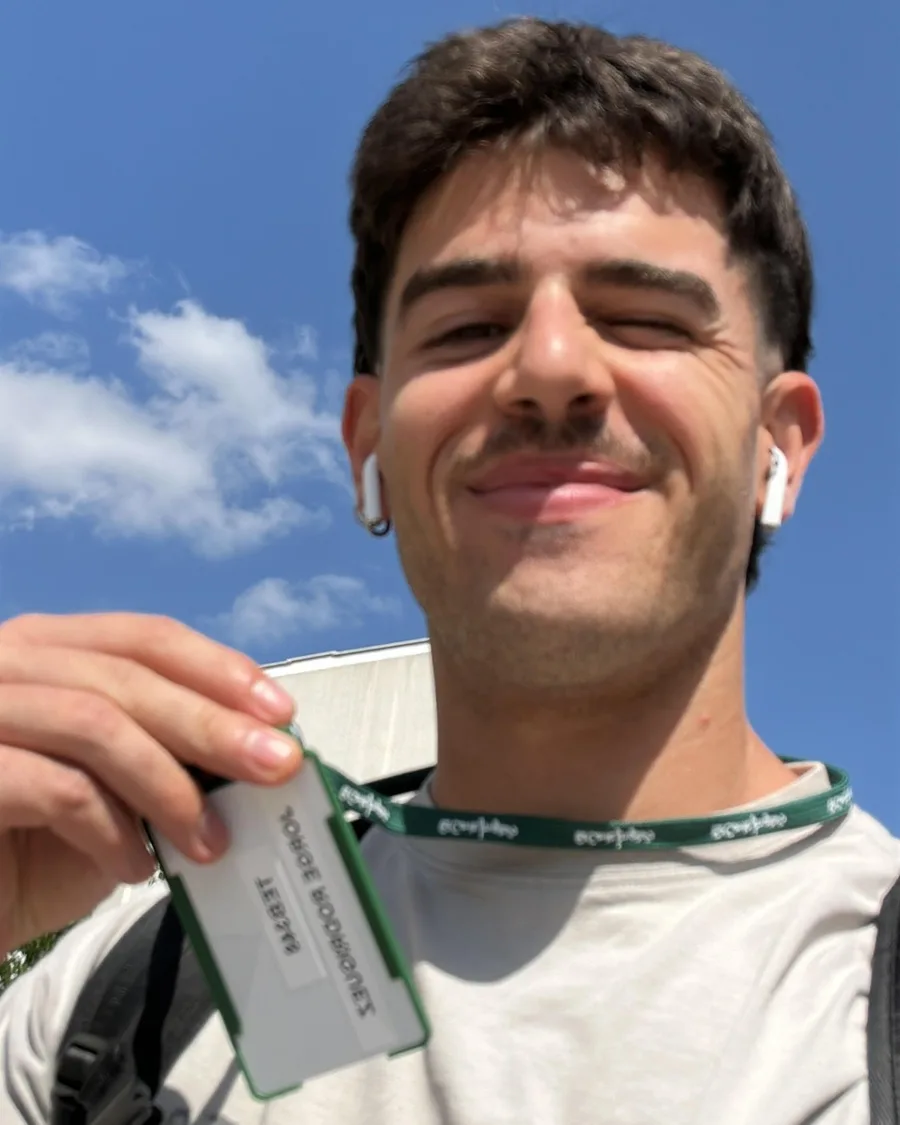
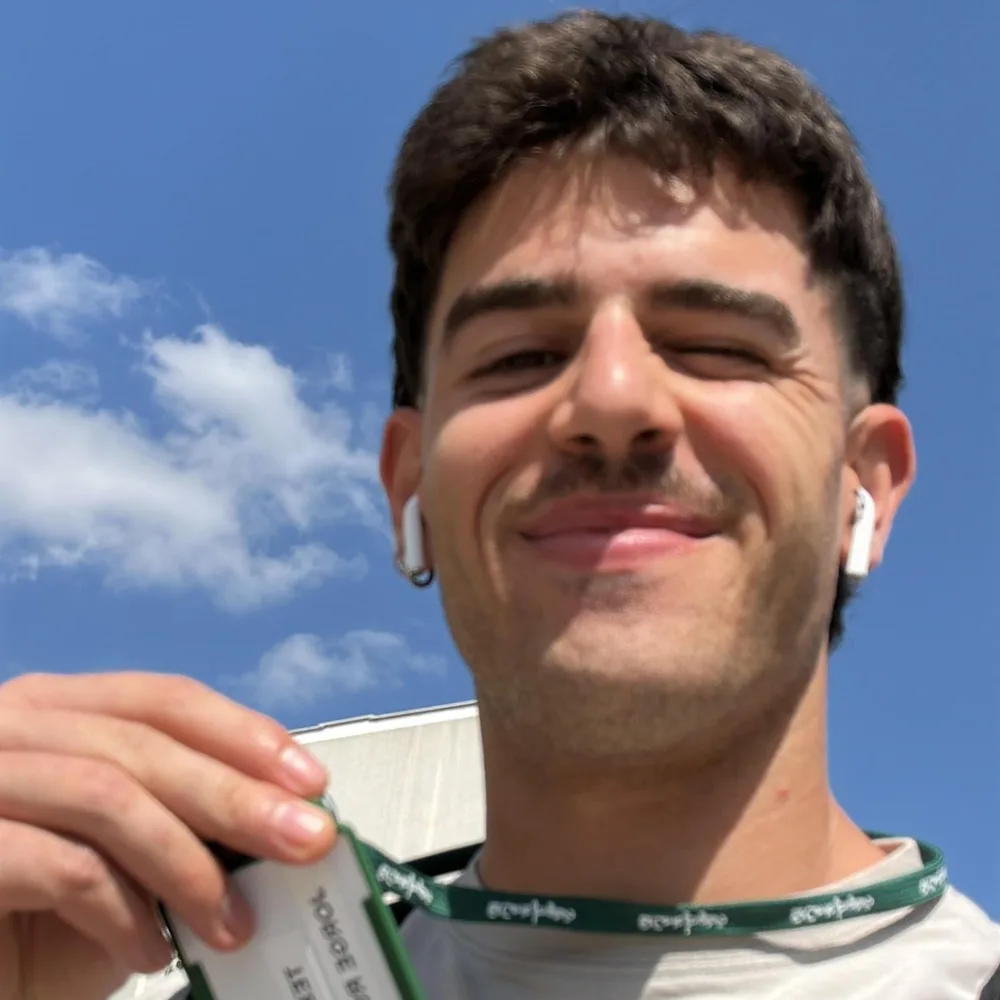
Education rows with place photos (Palma), square work photos, rule before master's thesis

diff --git a/index.html b/index.html
@@ -8,7 +8,7 @@
 <meta name="theme-color" content="#0b1b2e">
 <link rel="preload" href="fonts/bricolage-latin.woff2" as="font" type="font/woff2" crossorigin>
 <link rel="preload" href="fonts/publicsans-latin.woff2" as="font" type="font/woff2" crossorigin>
-<link rel="stylesheet" href="css/style.css?v=20261016h">
+<link rel="stylesheet" href="css/style.css?v=20261016i">
 <script>document.documentElement.classList.add('js')</script>
 </head>
 <body>
@@ -62,7 +62,8 @@
           <p>A customer-lifetime-value churn model that helps the Business department take strategy decisions based on sales probabilities. I tuned, calibrated and evaluated it in Databricks, and used feature analysis to find what drives the number of purchases before a customer leaves.</p>
         </li>
       </ul>
-      <div class="photos"><figure><button type="button" class="fig" data-full="assets/photos/work-1.webp" data-cap="Summer 2026 at Grupo Viajes El Corte Inglés in Palma de Mallorca."><img src="assets/photos/work-1.webp" width="900" height="1125" alt="Jorge smiling at the camera in a selfie against a blue sky, holding up his company badge on a green lanyard." loading="lazy"></button><figcaption>Summer 2026 at Grupo Viajes El Corte Inglés in Palma de Mallorca.</figcaption></figure><figure><button type="button" class="fig" data-full="assets/photos/work-2.webp" data-cap="The Blue Building where I did my internship."><img src="assets/photos/work-2.webp" width="900" height="1125" alt="The entrance sign of the Blue Building, with the logos of Logitravel and Grupo Viajes El Corte Inglés." loading="lazy"></button><figcaption>The Blue Building where I did my internship.</figcaption></figure></div>
+      <div class="photos"><figure><button type="button" class="fig" data-full="assets/photos/work-1.webp" data-cap="Summer 2026 at Grupo Viajes El Corte Inglés in Palma de Mallorca."><img src="assets/photos/work-1.webp" width="1000" height="1000" alt="Jorge smiling at the camera in a selfie against a blue sky, holding up his company badge on a green lanyard." loading="lazy"></button><figcaption>Summer 2026 at Grupo Viajes El Corte Inglés in Palma de Mallorca.</figcaption></figure><figure><button type="button" class="fig" data-full="assets/photos/work-2.webp" data-cap="The Blue Building where I did my internship."><img src="assets/photos/work-2.webp" width="1000" height="1000" alt="The entrance sign of the Blue Building, with the logos of Logitravel and Grupo Viajes El Corte Inglés." loading="lazy"></button><figcaption>The Blue Building where I did my internship.</figcaption></figure></div>
+      <hr class="sep">
 
 
       <article class="feature" aria-labelledby="thesis-h">
@@ -197,12 +198,17 @@ Thou f</pre></figure></div></div>
           <li><div class="when"><time>Jan 2021 to Jun 2025</time></div><div><strong>Private tutor</strong><br>Mathematics, physics and chemistry for high-school students</div></li>
         </ol>
         <h3 class="list-h">Education</h3>
-        <ol class="timeline">
-          <li><div class="when"><time>Sep 2025 to Dec 2026</time><span class="place">Palma de Mallorca, Spain</span></div><div><strong>MSc Physics of Complex Systems</strong><br>Universitat de les Illes Balears, IFISC<br>Current grade 8.26 / 10 (GPA: 3.32 / 4)<br>Thesis on delay prediction in aviation networks</div></li>
-          <li><div class="when"><time>Sep 2021 to Jun 2025</time><span class="place">Madrid, Spain</span></div><div><strong>BSc Physics, theoretical physics</strong><br>Universidad Complutense de Madrid<br>Grade 8.11 / 10 (GPA: 3.24 / 4)<br>Final thesis on DFT simulations of oxide semiconductors, graded 10 with honours</div></li>
-          <li><div class="when"><time>Sep 2023 to Jun 2024</time><span class="place">Amsterdam, Netherlands</span></div><div><strong>Erasmus+ exchange in Physics and Astronomy</strong><br>University of Amsterdam<br>As part of my BSc</div></li>
-          <li><div class="when"><time>Graduated Jun 2021</time><span class="place">Las Palmas, Spain</span></div><div><strong>A Levels</strong><br>British School of Gran Canaria<br>Mathematics (A*), Physics (A*), Chemistry (A*) and Biology (A)<br>Silver award in the UK Intermediate Mathematical Challenge, 2019</div></li>
+      </div>
+    </div>
+    <div class="wrap">
+    <ol class="edu-list">
+          <li class="edu-row"><div class="edu-left"><figure class="edu-photo"><button type="button" class="fig" data-full="assets/photos/place-palma.webp" data-cap="Palma de Mallorca, with the cathedral La Seu."><img src="assets/photos/place-palma.webp" width="1100" height="733" alt="The cathedral of Palma de Mallorca seen across the lake of the Parc de la Mar in warm evening light, with palm trees along the promenade." loading="lazy"></button><figcaption>Palma de Mallorca, with the cathedral La Seu.</figcaption></figure></div><div class="entry"><div class="when"><time>Sep 2025 to Dec 2026</time><span class="place">Palma de Mallorca, Spain</span></div><div><strong>MSc Physics of Complex Systems</strong><br>Universitat de les Illes Balears, IFISC<br>Current grade 8.26 / 10 (GPA: 3.32 / 4)<br>Thesis on delay prediction in aviation networks</div></div></li>
+          <li class="edu-row"><div class="edu-left"></div><div class="entry"><div class="when"><time>Sep 2021 to Jun 2025</time><span class="place">Madrid, Spain</span></div><div><strong>BSc Physics, theoretical physics</strong><br>Universidad Complutense de Madrid<br>Grade 8.11 / 10 (GPA: 3.24 / 4)<br>Final thesis on DFT simulations of oxide semiconductors, graded 10 with honours</div></div></li>
+          <li class="edu-row"><div class="edu-left"></div><div class="entry"><div class="when"><time>Sep 2023 to Jun 2024</time><span class="place">Amsterdam, Netherlands</span></div><div><strong>Erasmus+ exchange in Physics and Astronomy</strong><br>University of Amsterdam<br>As part of my BSc</div></div></li>
+          <li class="edu-row"><div class="edu-left"></div><div class="entry"><div class="when"><time>Graduated Jun 2021</time><span class="place">Las Palmas, Spain</span></div><div><strong>A Levels</strong><br>British School of Gran Canaria<br>Mathematics (A*), Physics (A*), Chemistry (A*) and Biology (A)<br>Silver award in the UK Intermediate Mathematical Challenge, 2019</div></div></li>
         </ol>
+    <div class="grid after-edu"><span></span>
+      <div>
         <h3 class="list-h">Tools</h3>
         <dl class="tools">
           <div><dt>Programming</dt><dd>Python (advanced), SQL, Git, Julia, MATLAB</dd></div>
@@ -211,6 +217,7 @@ Thou f</pre></figure></div></div>
         </dl>
       </div>
     </div>
+  </div>
   </section>
 
   <section class="band tint" id="contact" aria-labelledby="contact-h">
@@ -237,8 +244,8 @@ Thou f</pre></figure></div></div>
 
 <dialog class="lb" id="lb" aria-label="Enlarged figure"><img id="lbImg" alt=""><p id="lbCap"></p><button type="button" id="lbClose">Close</button></dialog>
 
-<script src="js/gsap.min.js?v=20261016h"></script>
-<script src="js/fluid.js?v=20261016h"></script>
-<script src="js/main.js?v=20261016h"></script>
+<script src="js/gsap.min.js?v=20261016i"></script>
+<script src="js/fluid.js?v=20261016i"></script>
+<script src="js/main.js?v=20261016i"></script>
 </body>
 </html>

diff --git a/css/style.css b/css/style.css
@@ -165,3 +165,22 @@ h4.agroup { margin:1.8rem 0 .8rem; font-size:1.1rem }
 .photos button.fig img { display:block; width:100%; height:100%; object-fit:cover }
 @media (max-width:820px) { .photos { grid-template-columns:repeat(2,minmax(0,1fr)) } }
 .photos { margin-bottom:clamp(3rem,7vw,5rem) }
+
+/* built at work photos fill the row; rule before the master's thesis */
+.photos { grid-template-columns:repeat(2,minmax(0,1fr)) !important; margin-bottom:0 !important }
+.photos button.fig, .photos button.fig:hover { aspect-ratio:1 / 1 !important }
+.sep { border:0; border-top:1px solid var(--line); margin:clamp(2.5rem,6vw,4rem) 0 clamp(2.5rem,6vw,4rem) }
+/* education rows: place photo on the left, entry on the right */
+.edu-list { list-style:none; margin:0; padding:0 }
+.edu-row { display:grid; grid-template-columns:minmax(0,5fr) minmax(0,7fr); gap:clamp(1.5rem,5vw,4.5rem); align-items:start }
+.edu-row .entry { display:grid; grid-template-columns:11.5rem 1fr; gap:1.2rem; padding:0 0 1.6rem; margin:0 0 1.6rem; border-bottom:1px solid var(--line) }
+.edu-row:last-child .entry { border-bottom:0; margin-bottom:0 }
+.edu-row .entry time { white-space:nowrap; color:var(--dusk); font-weight:600; font-size:.95rem }
+.edu-row .when { display:flex; flex-direction:column; gap:.15rem }
+.edu-row .place { color:var(--dusk); font-weight:400; font-size:.9rem; line-height:1.35 }
+.edu-photo { margin:0; max-width:300px }
+.edu-photo button.fig, .edu-photo button.fig:hover { display:block; width:100%; margin:0; padding:0; background:#fff; color:inherit; border:1px solid var(--line); border-radius:4px; cursor:zoom-in; overflow:hidden; aspect-ratio:4 / 3 }
+.edu-photo img { display:block; width:100%; height:100%; object-fit:cover }
+.edu-photo figcaption { margin-top:.4rem; font-size:.85rem; color:var(--dusk) }
+.after-edu { margin-top:2.5rem }
+@media (max-width:820px) { .edu-row { grid-template-columns:1fr; gap:.8rem } .edu-row .entry { grid-template-columns:1fr; gap:.2rem } .edu-photo { max-width:none } }
